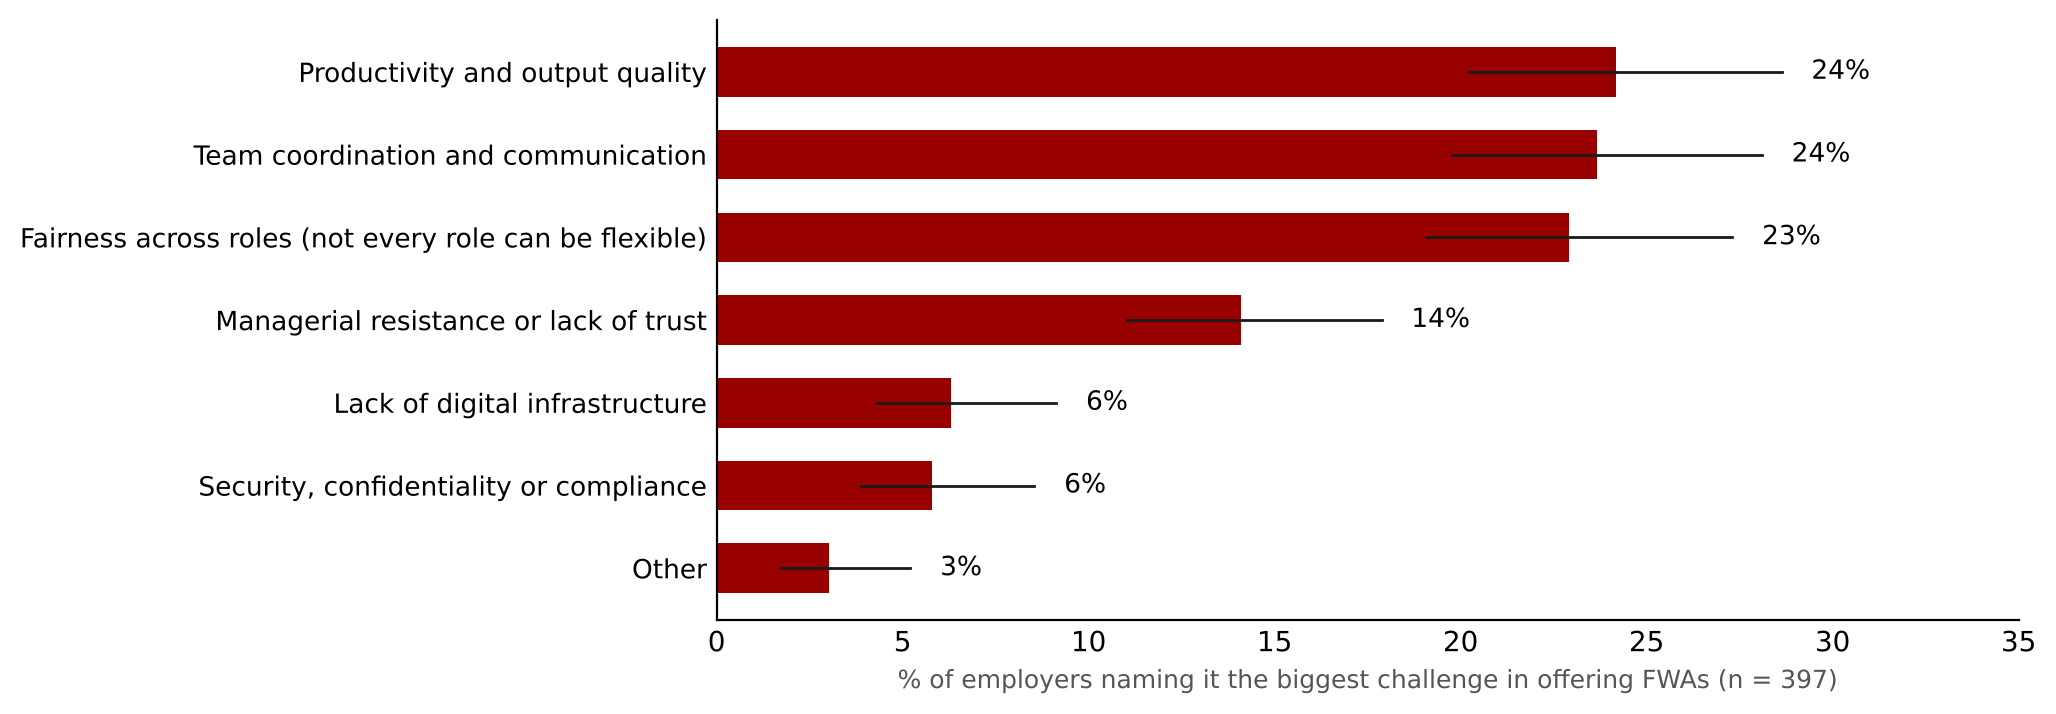
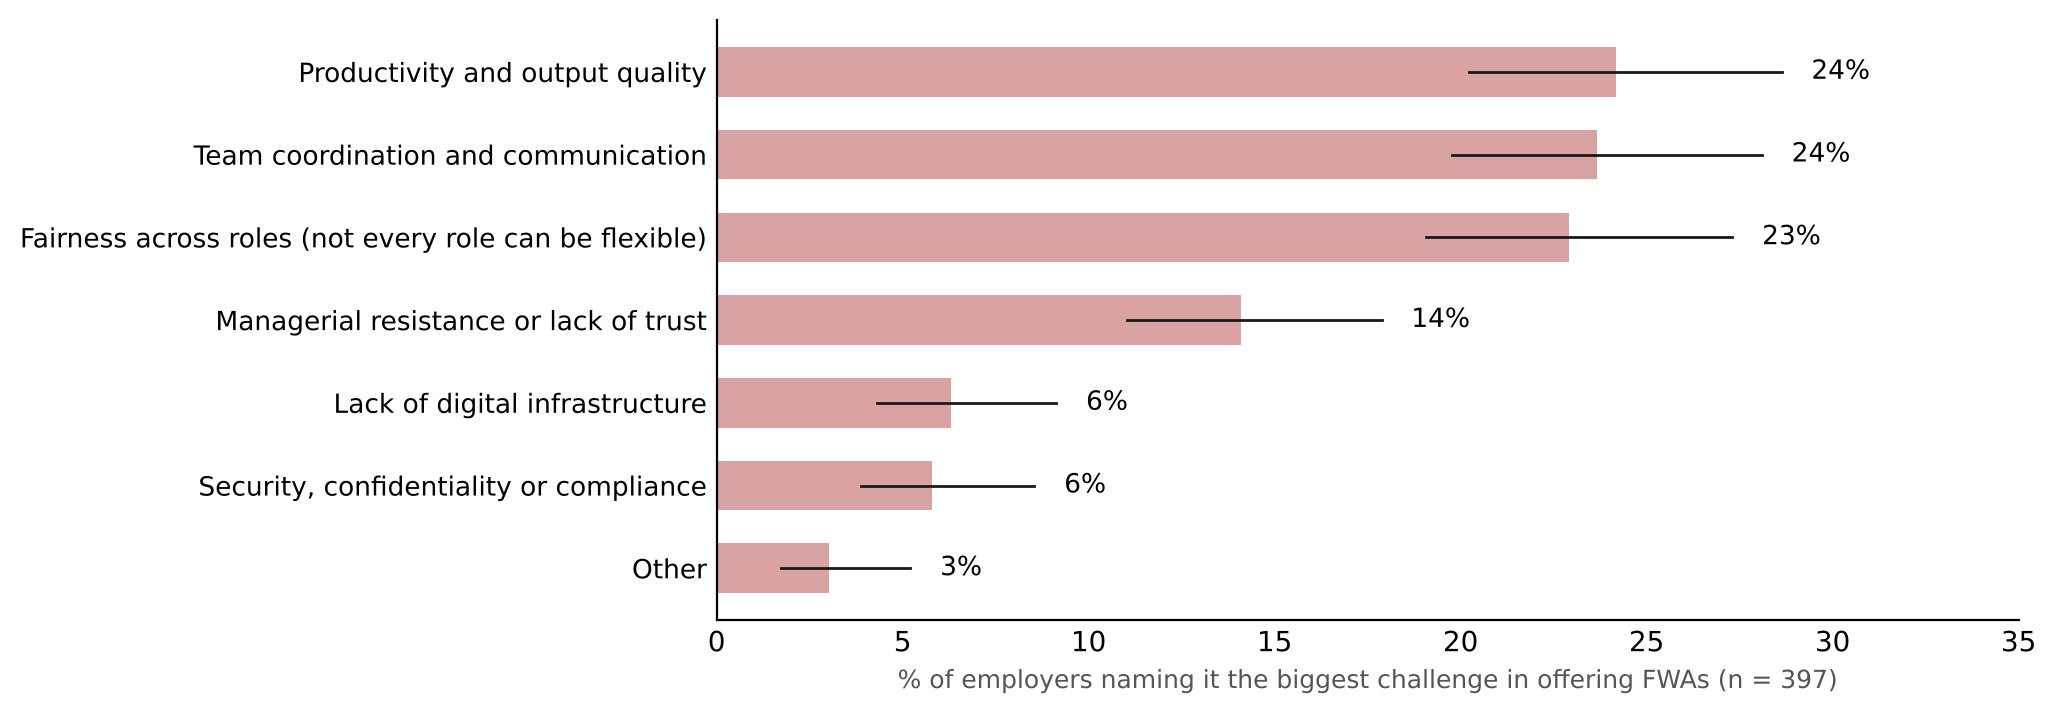
FWA challenge figure: lighter bars so intervals are visible
Claude-Session: https://claude.ai/code/session_01CDrd7CbNGkm4ND9QBnK4x2

diff --git a/MOM_presentation/scripts/fwa_diagnosis.py b/MOM_presentation/scripts/fwa_diagnosis.py
@@ -204,7 +204,7 @@ plt.close(fig)
 fig, ax = plt.subplots(figsize=(8.4, 3.9))
 c2 = ch.iloc[::-1]
 for i, r in enumerate(c2.itertuples()):
-    ax.barh(i, r.share, height=0.6, color=RED)
+    ax.barh(i, r.share, height=0.6, color=LRED)
     ax.plot([r.lb, r.ub], [i, i], color=INK, lw=1.0)
     ax.text(r.ub + 0.8, i, f"{r.share:.0f}%", va="center", fontsize=9.5)
 ax.set_yticks(range(len(c2)))
